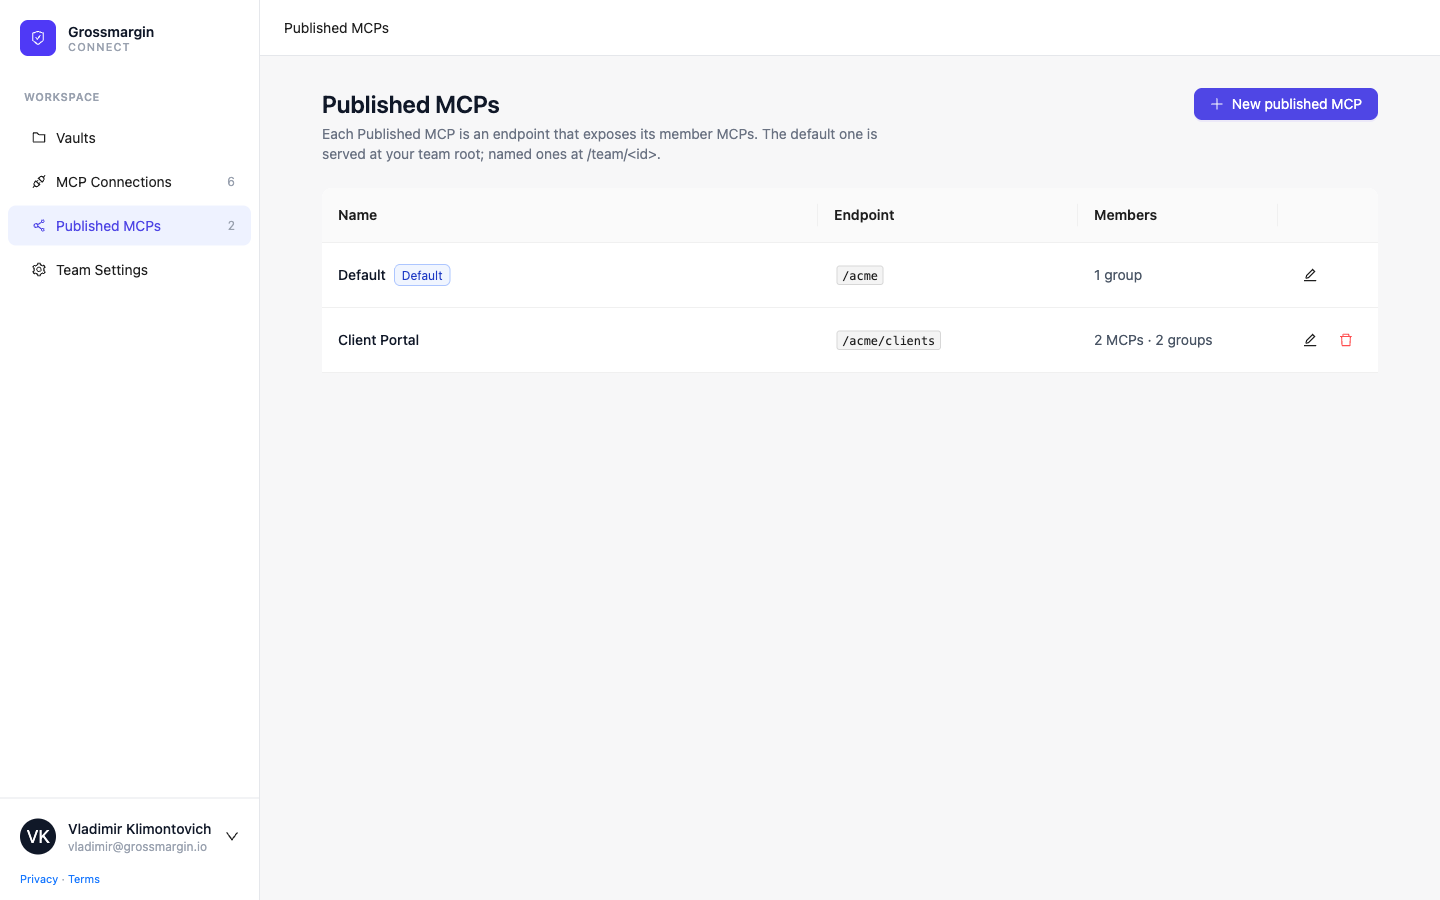
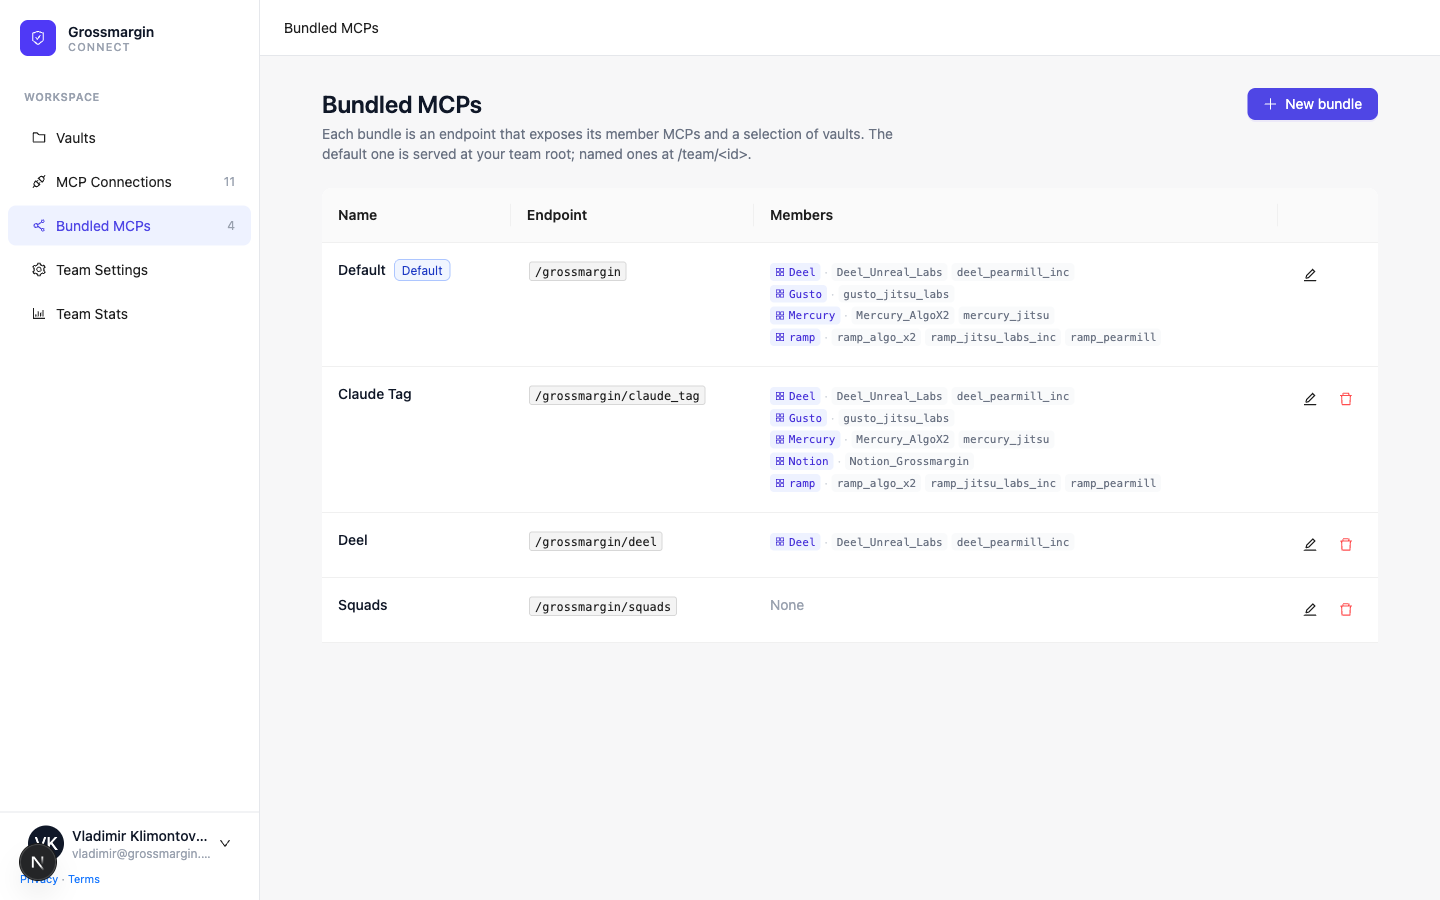
docs: rename Published MCPs to Bundled MCPs, refresh screenshots (#4)
Update README text and the two screenshots to the new "Bundled MCPs" label,
and note that each bundle chooses which vaults it exposes.

diff --git a/README.md b/README.md
@@ -5,7 +5,7 @@ Claude Cowork.
 
 - **Provider connectors are single-account.** If you manage several companies in one provider (for
   example Deel, Gusto, Ramp), you can connect only one, and Claude cannot mount two instances of the same MCP. This
-  blocks agencies that manage many client accounts. **Published MCPs** with **groups** (see below) solve it.
+  blocks agencies that manage many client accounts. **Bundled MCPs** with **groups** (see below) solve it.
 - **Stock MCP connectors expose less than the API behind them.** For example, the Google Drive connector
   cannot edit cell values in a Sheet, but the Google Sheets API can. The fix is to hand the agent the
   raw credentials, safely. This part is a "missing 1Password MCP": you store a credential once, and
@@ -15,15 +15,18 @@ Built with Next.js, Prisma, and Postgres.
 
 ![Vaults](docs/screenshots/vaults.png)
 
-## Published MCPs
+## Bundled MCPs
 
-A **Published MCP** is an MCP endpoint that exposes a set of members. A member is one of:
+A **bundle** (Bundled MCP) is an MCP endpoint that exposes a set of members. A member is one of:
 
 - an **individual MCP** — one connection, whose tools are served under its own `<id>__` prefix; or
 - a **group** — several connections of the same provider, served under one `<id>__` prefix. Each
   connection is a **tenant**, and the agent picks one per call with a required `tenant` argument.
 
-The default Published MCP is served at your team root (`/<team>`); named ones at `/<team>/<id>`.
+A bundle also chooses which **vaults** its credential tools expose: all team vaults (minus optional
+exceptions), or an explicit allow-list. See [Vaults and Credentials](#vaults-and-credentials).
+
+The default bundle is served at your team root (`/<team>`); named ones at `/<team>/<id>`.
 
 Set one up in two steps:
 
@@ -32,12 +35,12 @@ Set one up in two steps:
 
    ![MCP Connections](docs/screenshots/connections.png)
 
-2. Create a Published MCP and add members: individual MCPs, and groups for the providers where you have
+2. Create a bundle and add members: individual MCPs, and groups for the providers where you have
    several accounts.
 
-   ![Published MCPs](docs/screenshots/published-mcps.png)
+   ![Bundled MCPs](docs/screenshots/published-mcps.png)
 
-   ![Editing a Published MCP](docs/screenshots/published-mcp-edit.png)
+   ![Editing a bundle](docs/screenshots/published-mcp-edit.png)
 
 For a group, the agent calls `<id>__tenants` to list the accounts, then passes one `tenant` id on each
 tool call. An individual MCP is called directly — no `tenant` argument.
@@ -59,6 +62,9 @@ Agents reach vaults through the root MCP server at `/mcp`, with three tools:
 - `get_credentials(vaultId?)` — credential metadata (never the content).
 - `view_credential(credentialId)` — the decrypted content, or a live Nango token. Every reveal is
   written to the audit log.
+
+Each [bundle](#bundled-mcps) chooses which vaults these tools expose, so a named endpoint can serve a
+subset of the team's vaults.
 
 ## Deployment
 
